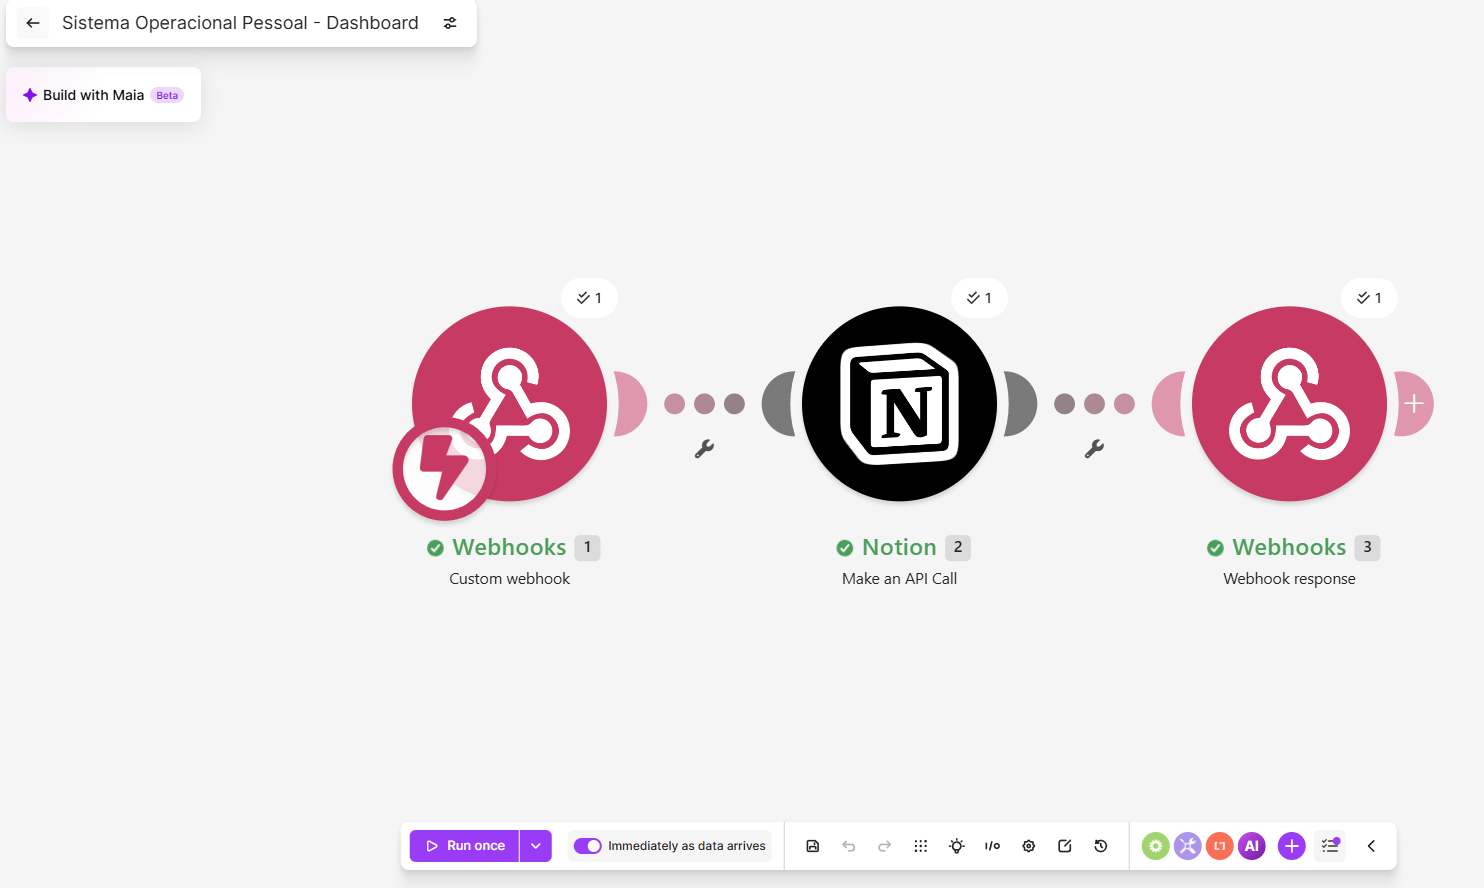
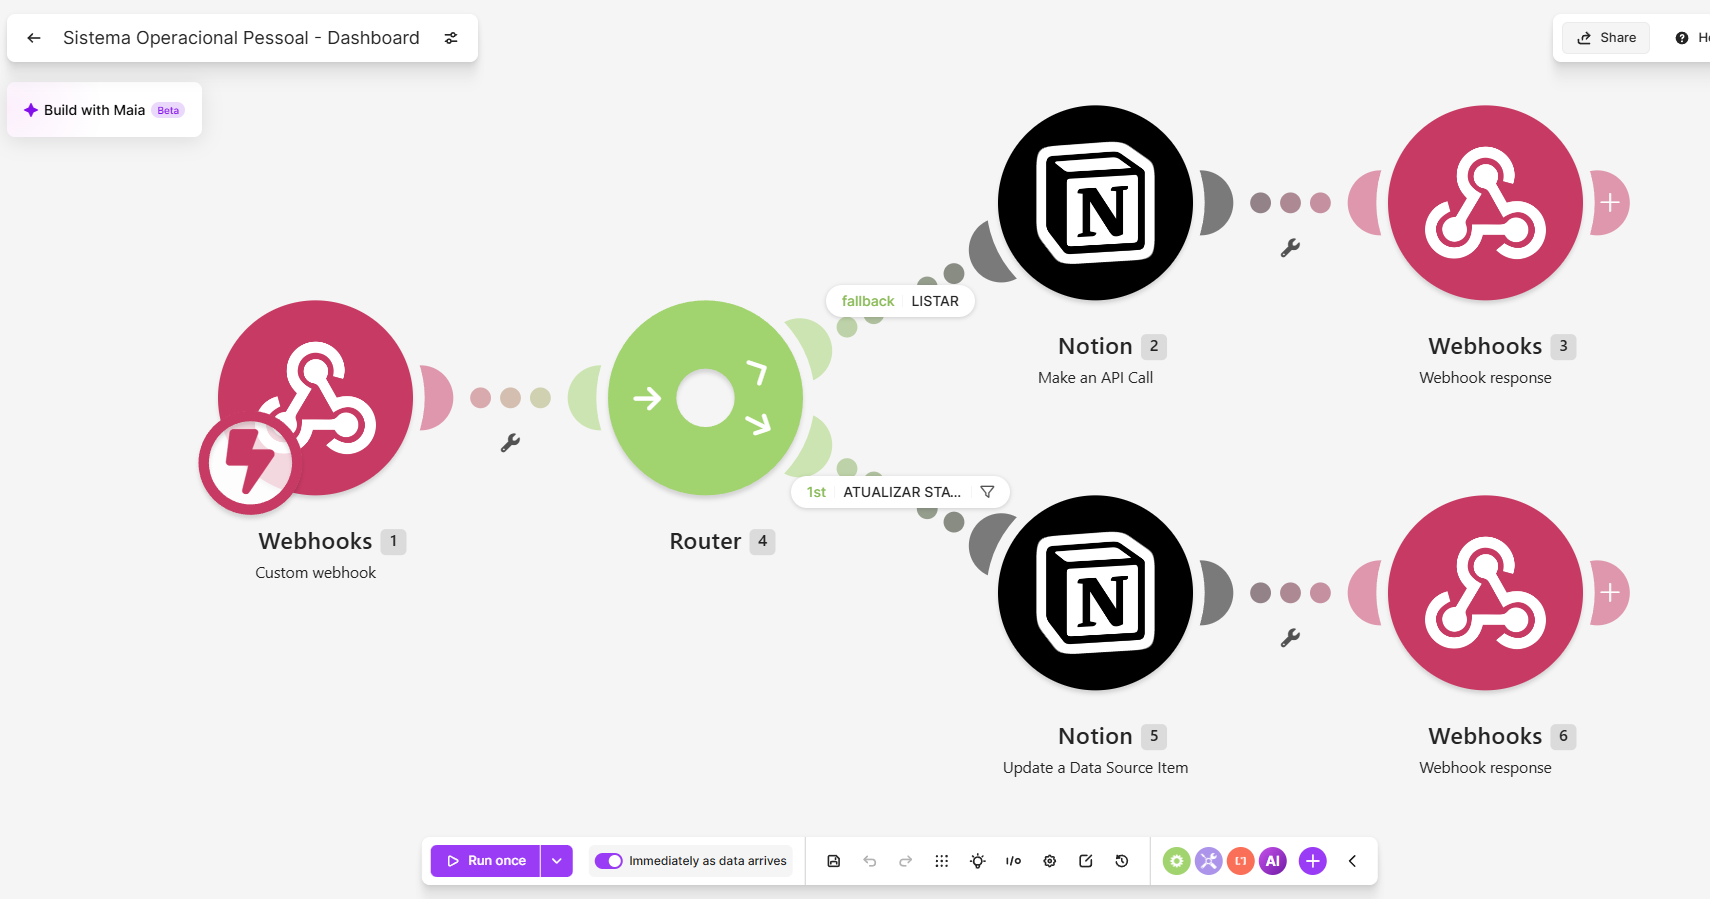
Atualiza documentacao e prints finais do projeto

diff --git a/README.md b/README.md
@@ -41,7 +41,9 @@ Por meio dele é possível:
 - informar uma área ou deixar a IA decidir;
 - visualizar o total de tarefas;
 - acompanhar tarefas prioritárias;
-- visualizar tarefas concluídas;
+- iniciar tarefas e alterar o status para **Em andamento**;
+- concluir tarefas diretamente pelo dashboard;
+- visualizar tarefas concluídas em uma seção específica;
 - identificar automaticamente tarefas não concluídas com prazo expirado;
 - consultar as próximas atividades;
 - acompanhar o planejamento pelo calendário;
@@ -49,7 +51,9 @@ Por meio dele é possível:
 
 ### Dashboard principal
 
-![Dashboard Geral](images/dashboard-geral.png)
+![Dashboard - Visão Geral](images/dashboard-geral-parte-superior.png)
+
+A visão geral reúne cadastro, indicadores, próximas tarefas, prioridades e controles de status (Iniciar, Em andamento e Concluir).
 
 ---
 
@@ -104,7 +108,9 @@ Essa funcionalidade utiliza **lógica de programação**, sem necessidade de Int
 
 ### Tarefas atrasadas
 
-![Monitoramento de Tarefas Atrasadas](images/dashboard-geral.png)
+![Acompanhamento de Tarefas](images/dashboard-geral-acompanhamentos.png)
+
+O acompanhamento separa visualmente tarefas atrasadas e tarefas concluídas; ao concluir uma atividade, ela deixa de ser considerada atrasada.
 
 ---
 
@@ -170,7 +176,7 @@ Webhook Response
 Dashboard atualizado
 ```
 
-Assim, as tarefas armazenadas na base podem ser utilizadas pelo próprio dashboard para alimentar o calendário, os indicadores, as listas e a Matriz de Eisenhower.
+Assim, as tarefas armazenadas na base podem ser utilizadas pelo próprio dashboard para alimentar o calendário, os indicadores, as listas e a Matriz de Eisenhower. O dashboard também permite acompanhar o andamento das atividades por meio dos botões **Iniciar** e **Concluir**, mantendo o status sincronizado com a base de tarefas.
 
 ### Cenário de integração do Dashboard
 
@@ -219,7 +225,7 @@ Cada tarefa pode possuir as seguintes informações:
 
 ## 🔁 Fluxo completo da solução
 
-O sistema possui dois fluxos principais.
+O sistema possui fluxos integrados para cadastro, visualização e acompanhamento do status das tarefas.
 
 ### 1. Cadastro inteligente
 
@@ -251,6 +257,17 @@ HTML / JavaScript
 Dashboard
 ```
 
+### 3. Acompanhamento de status
+
+O usuário pode controlar a execução das tarefas diretamente no dashboard:
+
+- **Iniciar** — altera a tarefa para **Em andamento**;
+- **Concluir** — altera a tarefa para **Concluída**;
+- tarefas concluídas deixam de ser tratadas como pendentes ou atrasadas;
+- atividades finalizadas são apresentadas em uma seção própria de **Tarefas concluídas**.
+
+Dessa forma, o dashboard funciona não apenas como painel de consulta, mas também como interface de acompanhamento da execução das atividades.
+
 Essa arquitetura permite separar a **interface visual**, a **automação**, a **Inteligência Artificial** e a **base de dados**.
 
 ---
@@ -276,6 +293,8 @@ O dashboard publicado permite visualizar a interface desenvolvida e demonstrar o
 8. O Gemini analisará e classificará a tarefa.
 9. O Make registrará as informações no Notion.
 10. O dashboard consulta os dados armazenados e apresenta as tarefas nas áreas correspondentes.
+11. Para começar uma atividade, clique em **Iniciar**; o status passa para **Em andamento**.
+12. Ao finalizar, clique em **Concluir**; a tarefa passa para **Concluída** e é exibida na seção de tarefas concluídas.
 
 ---
 
@@ -295,7 +314,9 @@ O sistema desenvolvido possui:
 - indicadores de produtividade;
 - lista de próximas tarefas;
 - visualização de tarefas prioritárias;
-- acompanhamento de status;
+- acompanhamento de status **Não iniciada → Em andamento → Concluída**;
+- botões **Iniciar** e **Concluir** no dashboard;
+- seção específica de tarefas concluídas;
 - monitoramento automático de tarefas atrasadas;
 - identificação de prazo expirado por data e horário;
 - indicador com a quantidade de tarefas atrasadas;
@@ -333,7 +354,8 @@ Meu-Sistema-Operacional-Pessoal/
 ├── README.md
 │
 └── images/
-    ├── dashboard-geral.png
+    ├── dashboard-geral-parte-superior.png
+    ├── dashboard-geral-acompanhamentos.png
     ├── calendario.png
     ├── eisenhower.png
     ├── make-cadastro.png
@@ -347,7 +369,7 @@ Meu-Sistema-Operacional-Pessoal/
 
 O projeto demonstra como diferentes ferramentas digitais podem ser integradas para criar um sistema pessoal de produtividade.
 
-A combinação entre **dashboard web, Matriz de Eisenhower, calendário, automação, Inteligência Artificial e armazenamento de dados** permite transformar o gerenciamento de tarefas em um processo mais visual, centralizado e automatizado.
+A combinação entre **dashboard web, Matriz de Eisenhower, calendário, automação, Inteligência Artificial e armazenamento de dados** permite transformar o gerenciamento de tarefas em um processo mais visual, centralizado e automatizado. O acompanhamento por status permite ainda visualizar a evolução das atividades desde o início até a conclusão.
 
 Mais do que simplesmente registrar tarefas, a solução utiliza IA para auxiliar na organização das prioridades e no planejamento do tempo.
 
